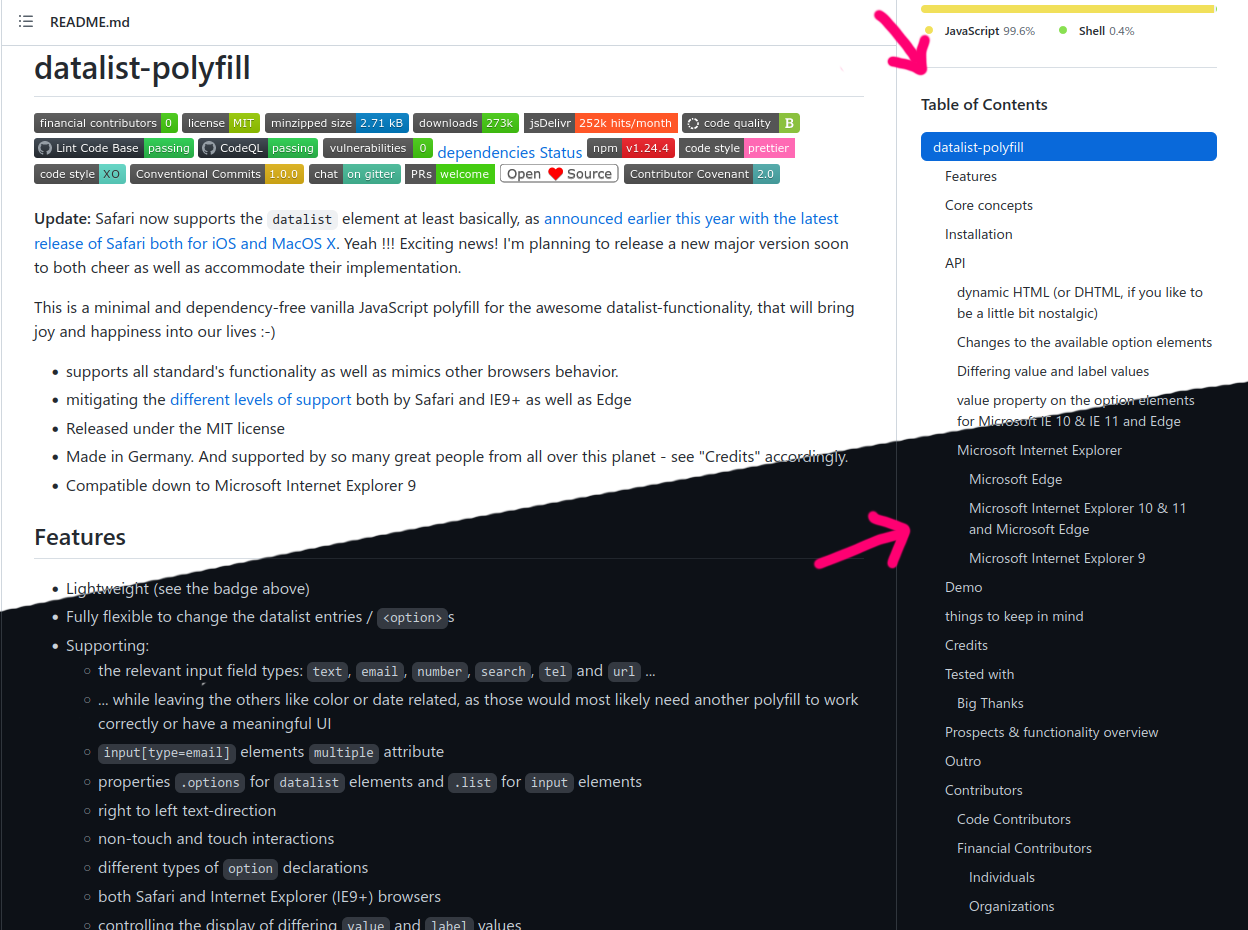
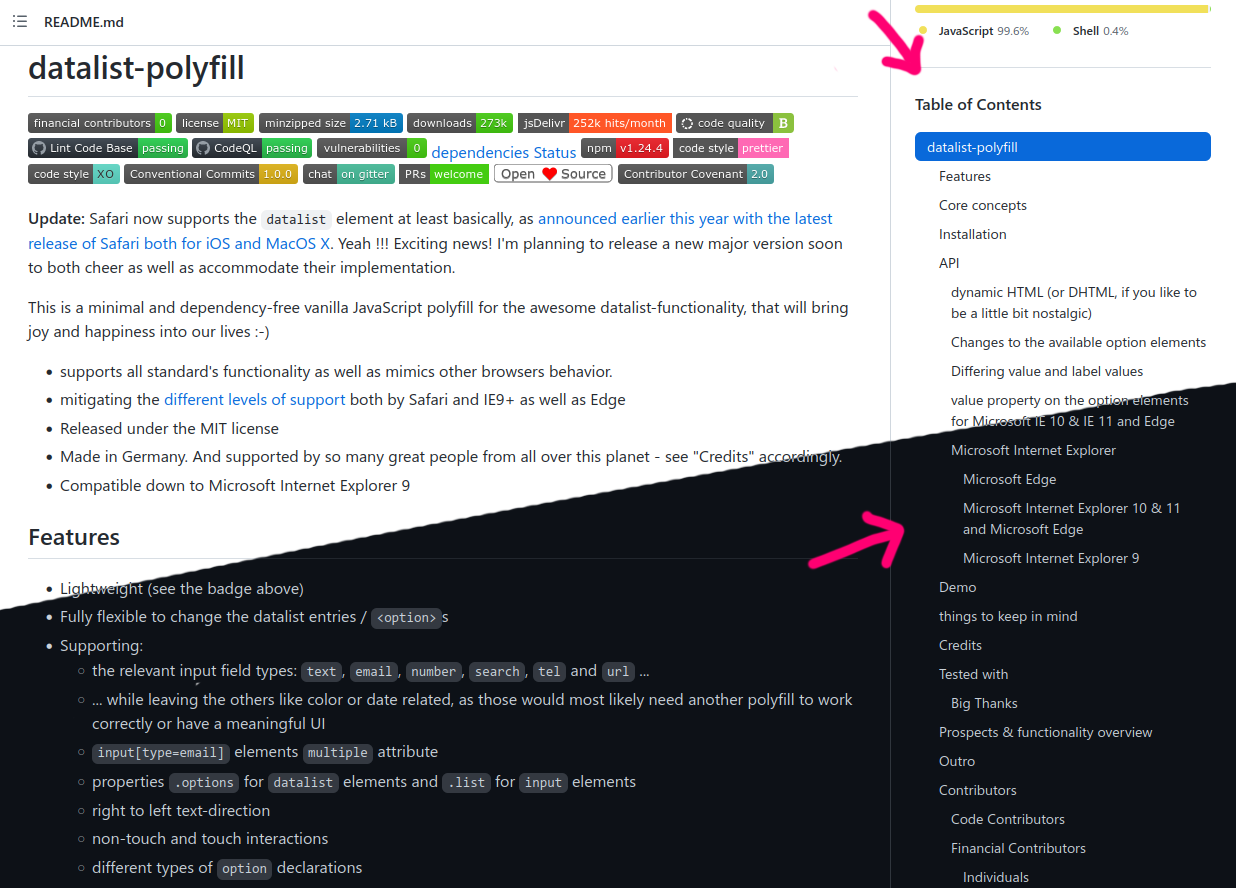
Resize readme images and add link to install

diff --git a/README.md b/README.md
@@ -14,7 +14,7 @@ _"... finally using that wasted sidebar space" – radiantly_
 ## Installation
 
 1. You will need a userscript manager like [Violentmonkey](https://violentmonkey.github.io/). Install it for Firefox [here](https://addons.mozilla.org/firefox/addon/violentmonkey/) or Chrome [here](https://chrome.google.com/webstore/detail/violent-monkey/jinjaccalgkegednnccohejagnlnfdag).
-2. Click here to install the userscript.
+2. Click [here](https://cdn.jsdelivr.net/gh/radiantly/GitHub-Sidebar-ToC@main/script.user.js) to install the userscript.
 
 ## Usage
 
